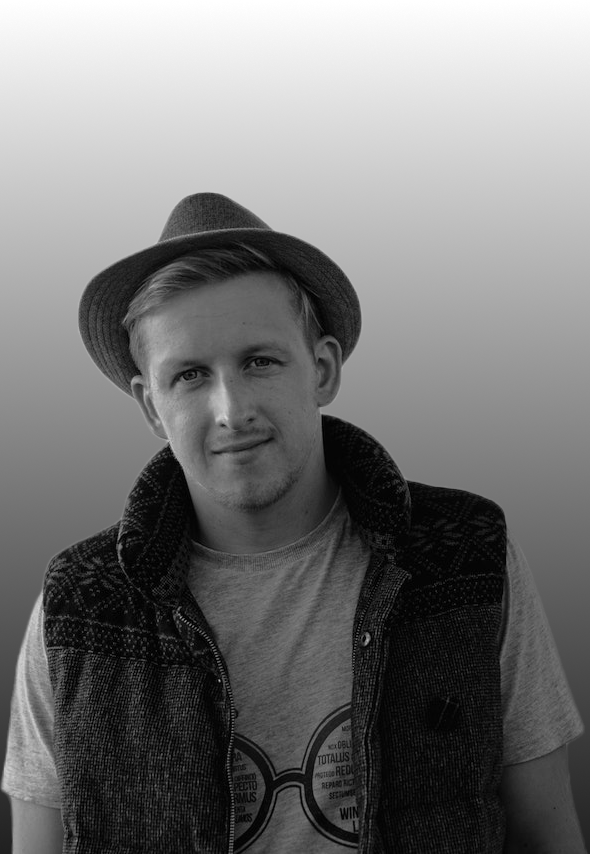
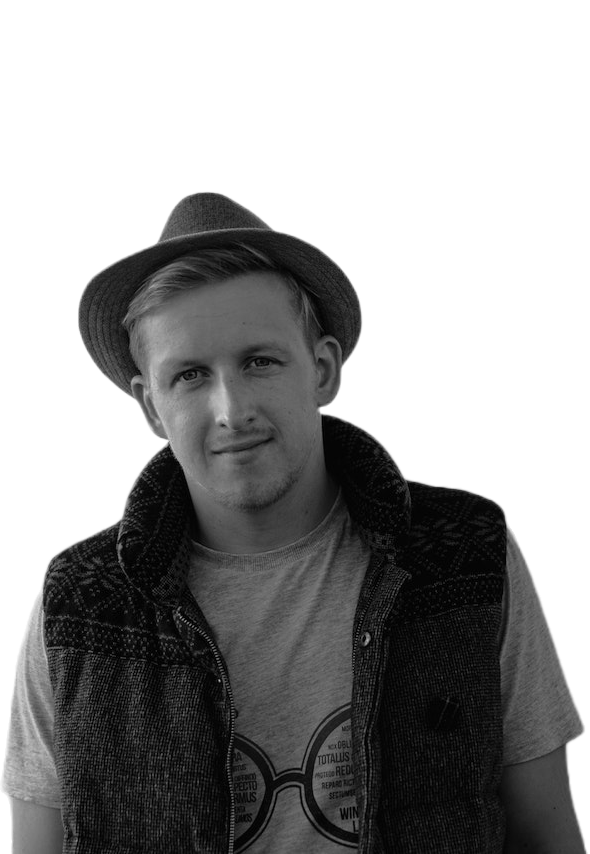
change presentation image and its background

diff --git a/src/components/Presentation.tsx b/src/components/Presentation.tsx
@@ -38,9 +38,12 @@ const PresentationStyled = styled.section`
 const PresentationImage = styled(Image)`
   max-width: 20rem;
   margin: 0 auto 2rem auto;
+  background: #202020 linear-gradient(180deg, transparent 0%, #202020 100%);
 
   @media screen and (min-width: ${tabletSize}) {
     margin-bottom: 0;
+    background-image: none;
+    background-color: #242424;
     position: absolute;
     top: 0;
     right: 0;
